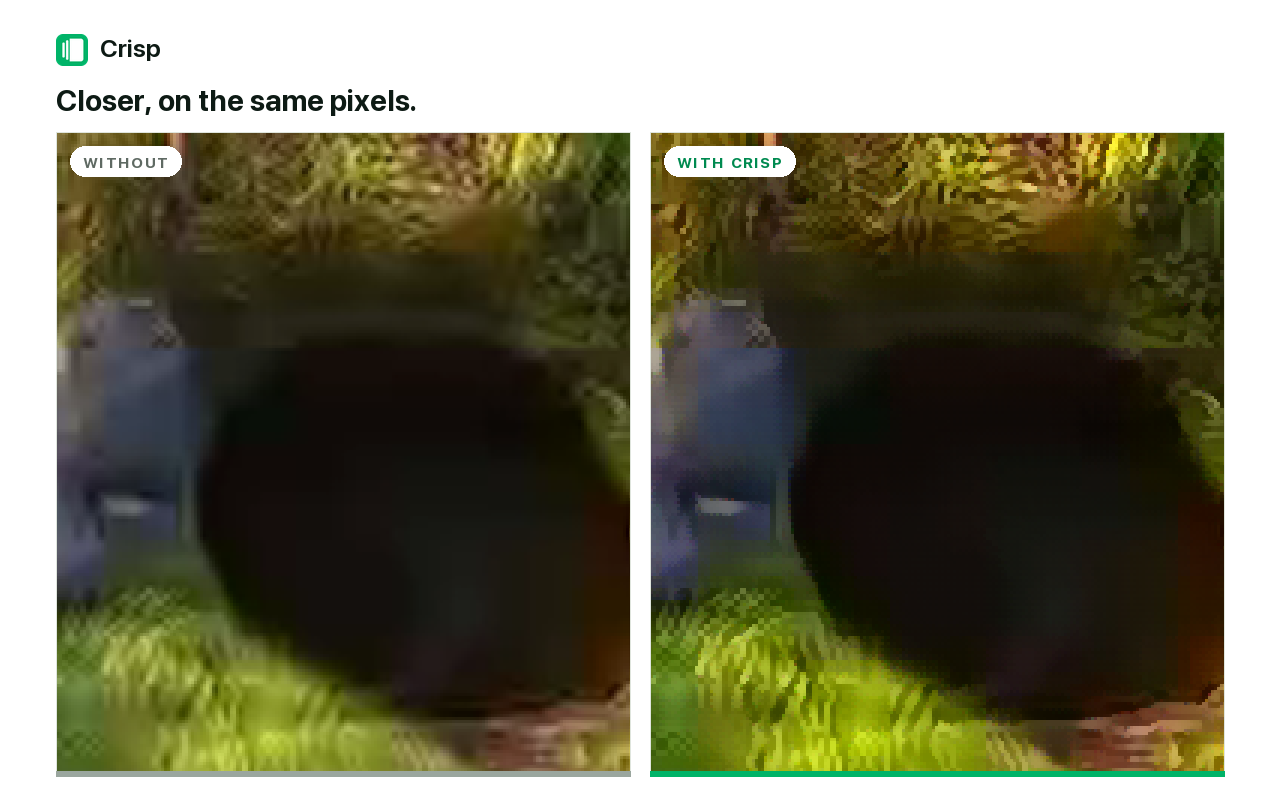
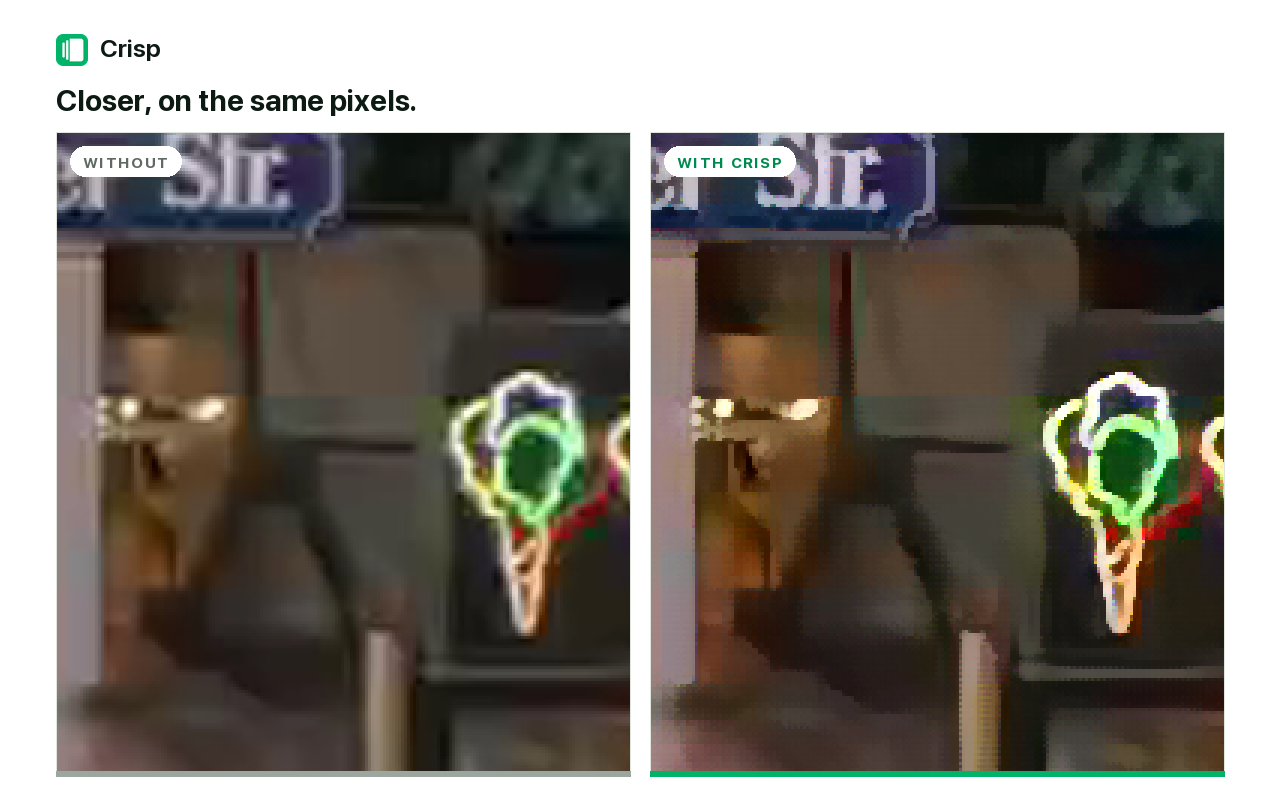
Restore the scored crops in the breadth shot
An earlier revision replaced find_crops scored windows with hardcoded
coordinates, and the cells the user had explicitly approved got visibly worse.
The scorer picks windows where the model measurably closes error against the
original, which is the whole point of that screenshot. Scoring runs on an
ungraded set so the Vivid look cannot corrupt the ranking.

Sintel was evaluated as a second animated source and rejected on measurement:
its best window scores a NEGATIVE gain, so the model does not help there. It is
soft, foggy footage that only looks detailed.

diff --git a/marketing/build_store.py b/marketing/build_store.py
@@ -28,6 +28,17 @@ OUT = Path("assets/screenshots")
 SETS = {}
 
 
+def load_plain(stem, frame=120):
+    """Ungraded, unsharpened set — used only for choosing crops."""
+    k = stem + "_plain"
+    if k not in SETS:
+        c = Path(f"src/_plain_{stem}.pt")
+        SETS[k] = (torch.load(c, weights_only=False) if c.exists()
+                   else make_set(f"src/{stem}.mp4", frame, sharpen=0, look="natural"))
+        torch.save(SETS[k], c)
+    return SETS[k]
+
+
 def load(stem, frame=120):
     if stem not in SETS:
         c = Path(f"src/_set_{stem}.pt")
@@ -72,17 +83,36 @@ def pair(s, region, scale, headline, out):
 
 
 def breadth(cells, out):
+    """Four clips, each cropped where the model MEASURABLY helps.
+
+    The crop is chosen by find_crops.score_windows, not by hand. An earlier
+    revision replaced those scored windows with hardcoded coordinates and the
+    cells got visibly worse -- the scorer is picking regions where the model
+    closes real error against the original, which is exactly what the cell is
+    supposed to show.
+
+    Scoring runs on an ungraded set: with the Vivid look applied, "after"
+    differs from the original by the grade as well as the reconstruction, which
+    would corrupt the ranking. Crops are found clean, then rendered graded.
+    """
+    from find_crops import score_windows
     im = Image.new("RGB", (W, H), GROUND)
     d = ImageDraw.Draw(im)
     lockup(im, d)
     d.text((PAD, 82), "The same network, four kinds of video.", font=font(30, 680), fill=INK)
     cw, ch = (W - 2 * PAD - 22) // 2, 306
     pw = (cw - 8) // 2
-    for i, (stem, label, frame, reg) in enumerate(cells):
+    for i, (stem, label, frame) in enumerate(cells):
         cx = PAD + (i % 2) * (cw + 22)
         cy = 140 + (i // 2) * (ch + 26)
+        plain = load_plain(stem, frame)
+        ranked = score_windows(plain, crop=180, stride=60)
+        if not ranked:
+            print(f"  !! no textured window in {stem}"); continue
+        _, _, y, x = ranked[0]
+        rh = 180
+        rw = int(rh * pw / 238)
         s = load(stem, frame)
-        x, y, rw, rh = reg
         for j, key in enumerate(("before", "after")):
             crop = to_pil(s[key][:, :, y:y + rh, x:x + rw]).resize((pw, 238), Image.LANCZOS)
             px = cx + j * (pw + 8)
@@ -90,6 +120,7 @@ def breadth(cells, out):
             d.rectangle([px, cy + 26, px + pw, cy + 264], outline=LINE, width=1)
             d.rectangle([px, cy + 264, px + pw, cy + 269], fill=GREEN if j else DULL)
         d.text((cx, cy), label, font=font(17, 660), fill=INK)
+        print(f"  {stem:26} scored crop ({x},{y})")
     im.save(OUT / out); print("wrote", out)
 
 
